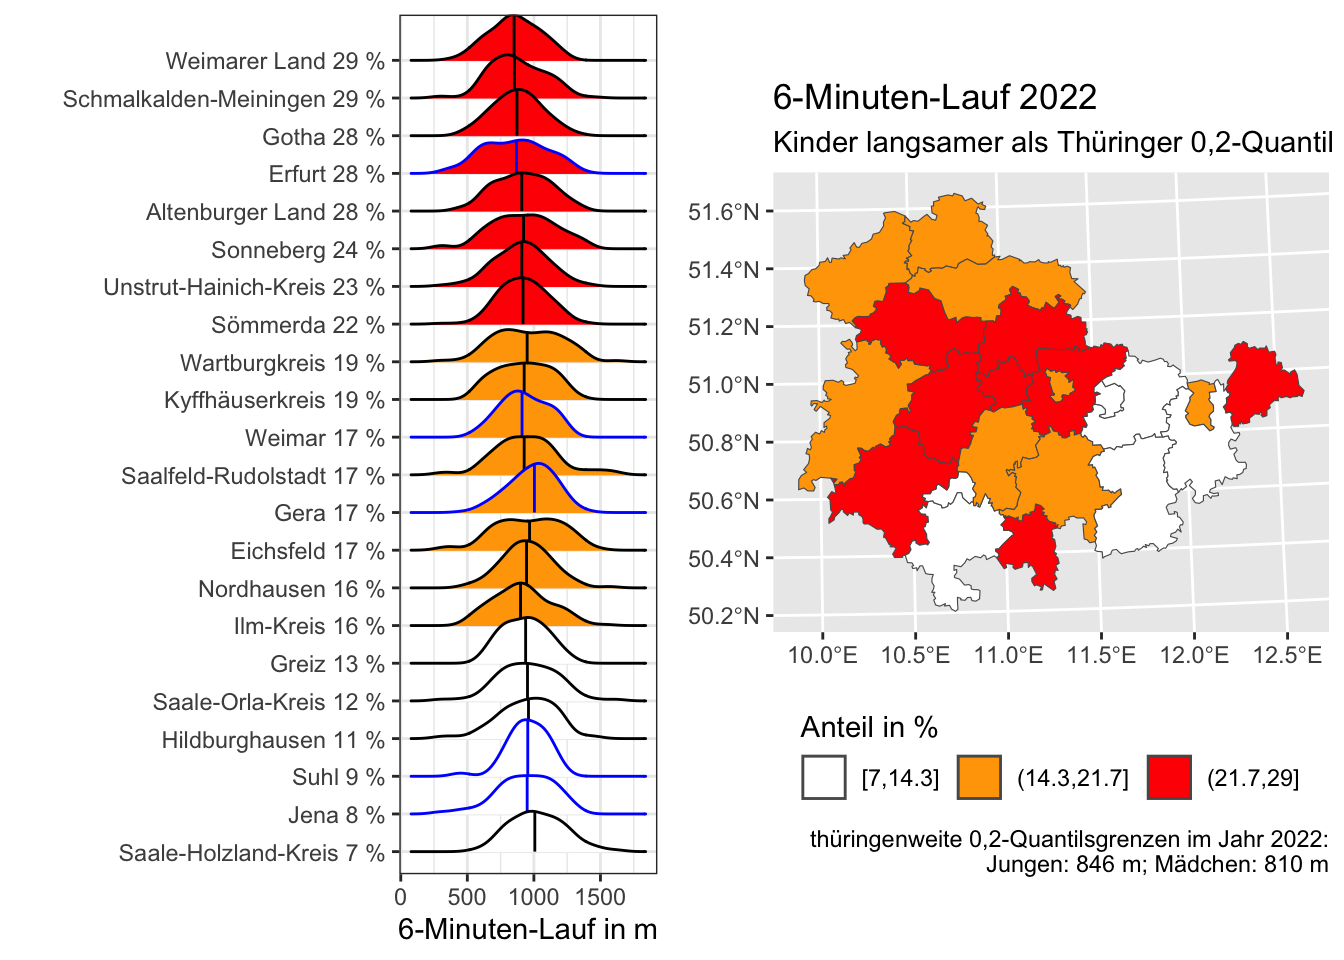
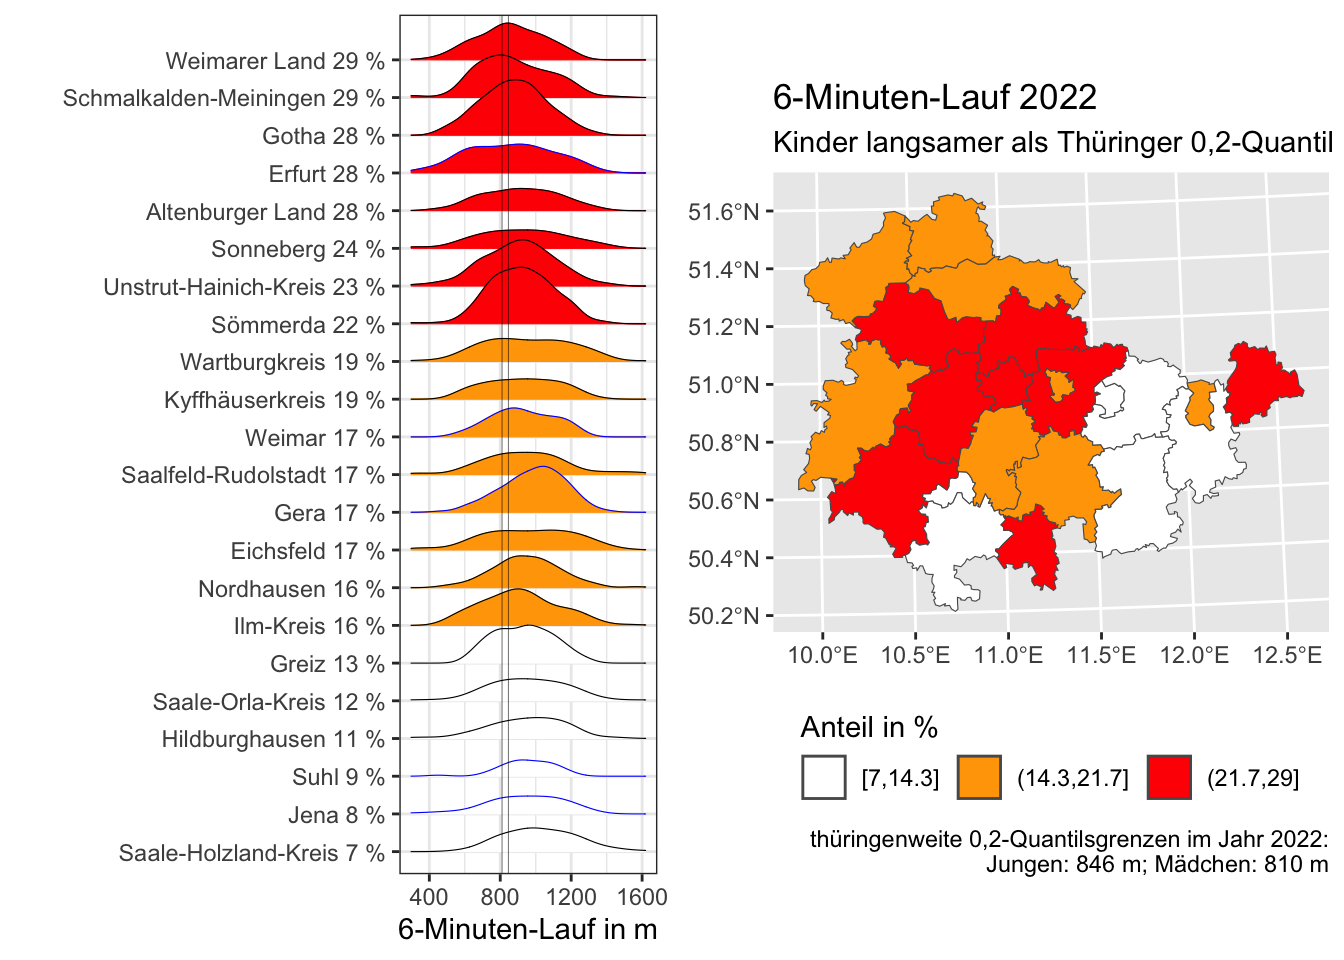
datenquelle

diff --git a/docs/019.html b/docs/019.html
@@ -445,6 +445,7 @@ ul.task-list li input[type="checkbox"] {
 <div id="quarto-appendix" class="default"><section id="aktualisierungen" class="level1 appendix"><h2 class="anchored quarto-appendix-heading">Aktualisierungen</h2><div class="quarto-appendix-contents">
 
 <ul>
+<li>2024-08-06: Legende, Höhe Verteilungsdichte bzgl. Anzahl Kinder</li>
 <li>2024-07-15: Erstellen der Seite</li>
 </ul>
 
